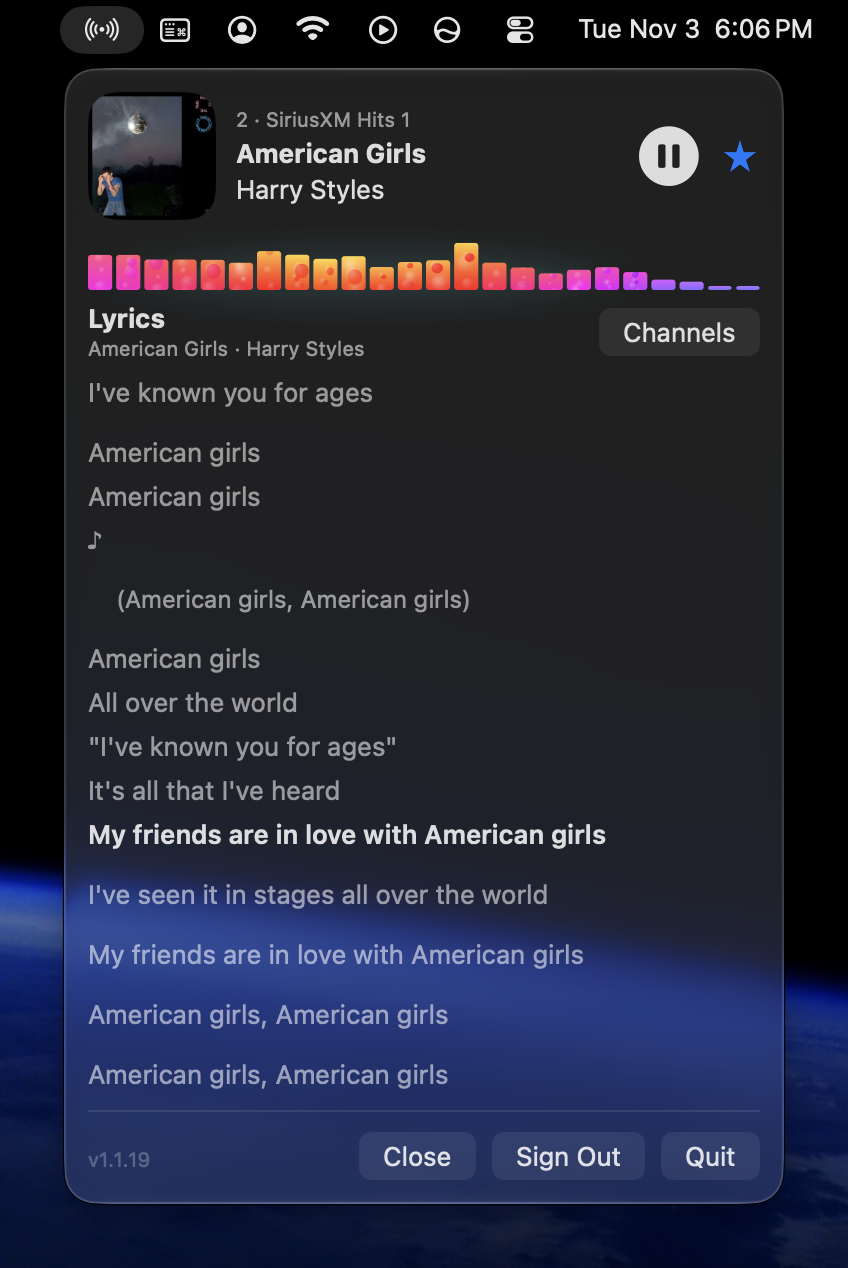
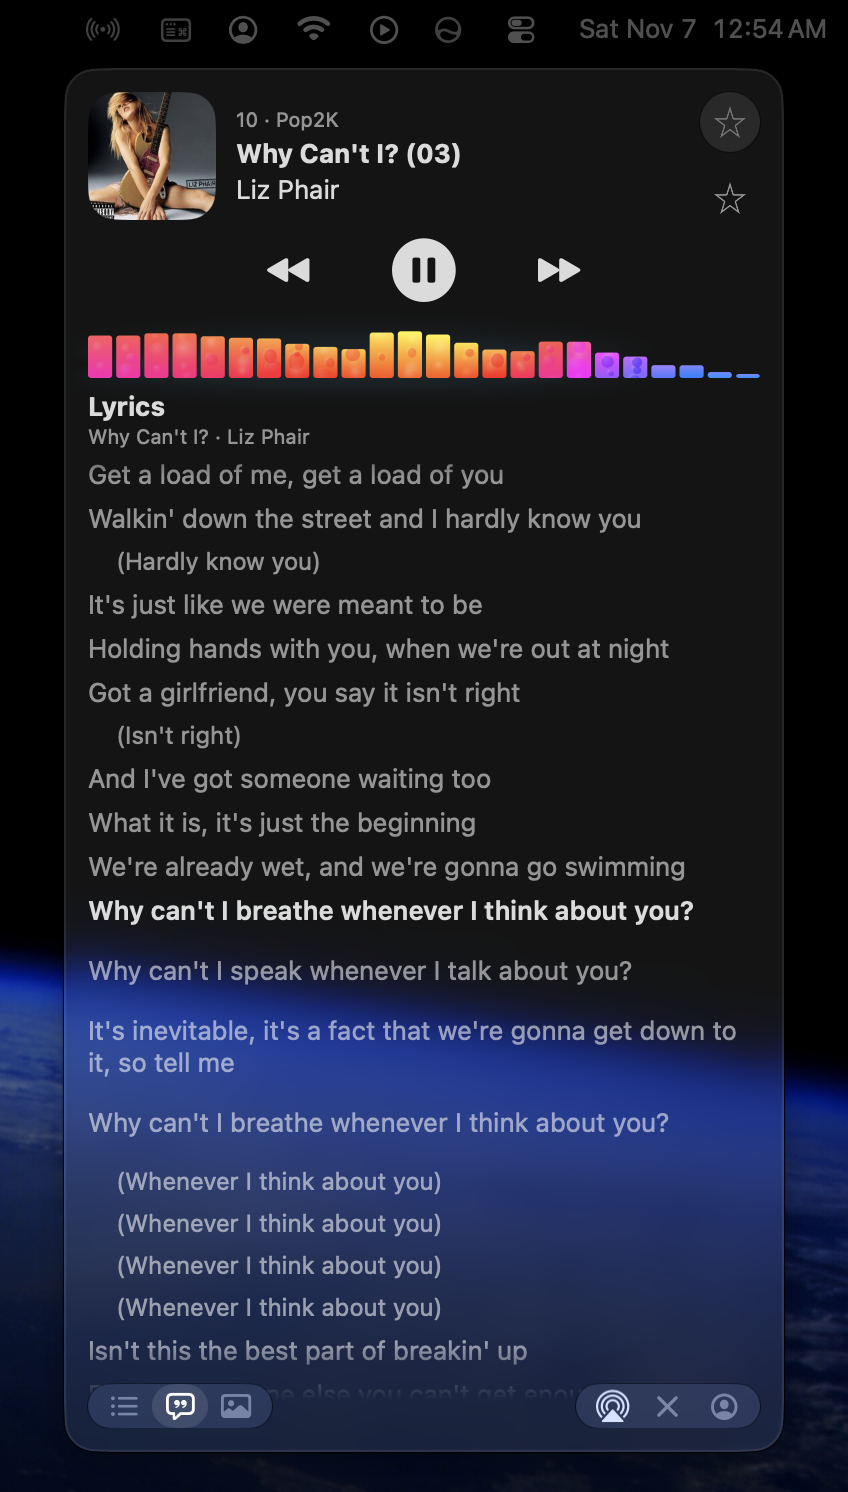
README: Mac screenshots and demo GIF retaken on 1.1.31 (Liquid Glass panel); All Stars button at the top right; download link 1.1.31

Changed region(s): [[0.0, 0.0, 1.0, 1.0], [0.7358, 0.0923, 0.8278, 0.1538], [0.7358, 0.4306, 0.7972, 0.4614]]

diff --git a/README.md b/README.md
@@ -21,7 +21,7 @@ StarPlayrX was built for visually impaired listeners, a group of paying subscrib
 ## 🎛 StarPlayrX for Mac (menu bar app)
 
 <p align="center">
-  <img src="docs/starplayrx-mac-demo.gif" width="400" alt="StarPlayrX playing Always Alright by Alabama Shakes: click the menu bar icon, drag the panel off the menu bar into its own window, double-click the header to roll it up like a window shade and again to roll it down, then click the icon to glide it back under the menu bar">
+  <img src="docs/starplayrx-mac-demo.gif" width="400" alt="StarPlayrX playing Why Can&#39;t I? by Liz Phair: click the menu bar icon, drag the panel off the menu bar into its own window, double-click the header to roll it up like a window shade and again to roll it down, then click the icon to glide it back under the menu bar">
 </p>
 
 <table align="center">
@@ -49,11 +49,11 @@ StarPlayrX was built for visually impaired listeners, a group of paying subscrib
 <table align="center">
   <tr>
     <td align="center" valign="top" width="50%">
-      <img src="docs/screenshot-mac-album-art.png" width="300" alt="StarPlayrX under the menu bar showing the Welcome to the Pleasuredome album art full size for Relax by Frankie Goes To Hollywood on 80s on 8"><br>
+      <img src="docs/screenshot-mac-album-art.png" width="300" alt="StarPlayrX under the menu bar showing The Joshua Tree album art full size for Where The Streets Have No Name by U2 on 80s on 8"><br>
       <b>🖼 Click the art, see it big</b>
     </td>
     <td align="center" valign="top" width="50%">
-      <img src="docs/screenshot-mac-album-art-2.png" width="300" alt="StarPlayrX under the menu bar showing the album art full size for Groove Line by Heatwave on 70s on 7"><br>
+      <img src="docs/screenshot-mac-album-art-2.png" width="300" alt="StarPlayrX under the menu bar showing the album art full size for Half-Breed by Cher on 70s on 7"><br>
       <b>📻 It follows the song</b>
     </td>
   </tr>
@@ -67,11 +67,11 @@ StarPlayrX was built for visually impaired listeners, a group of paying subscrib
 <table align="center">
   <tr>
     <td align="center" valign="top" width="50%">
-      <img src="docs/screenshot-mac-lyrics.png" width="300" alt="StarPlayrX under the menu bar showing time-synced lyrics for Miss Independent by Kelly Clarkson on Unwell Music, with the line being sung in bold"><br>
+      <img src="docs/screenshot-mac-lyrics.png" width="300" alt="StarPlayrX under the menu bar showing time-synced lyrics for Where The Streets Have No Name by U2 on 80s on 8"><br>
       <b>🎤 Sing along from the menu bar</b>
     </td>
     <td align="center" valign="top" width="50%">
-      <img src="docs/screenshot-mac-lyrics-2.png" width="300" alt="StarPlayrX under the menu bar showing time-synced lyrics for American Girls by Harry Styles on SiriusXM Hits 1"><br>
+      <img src="docs/screenshot-mac-lyrics-2.png" width="300" alt="StarPlayrX under the menu bar showing time-synced lyrics for Why Can&#39;t I? by Liz Phair on Pop2K"><br>
       <b>📜 The lyrics follow the song</b>
     </td>
   </tr>
@@ -109,7 +109,7 @@ StarPlayrX was built for visually impaired listeners, a group of paying subscrib
   </tr>
 </table>
 
-- **Stars (presets):** every channel row has a star; click it to add the channel to your presets or take it out. The star beside the play button stars the playing channel, and the star beside the search field shows just your starred channels. Stars are kept on this Mac, under the same key and with the same starting set as the iOS app
+- **Stars (presets):** every channel row has a star; click it to add the channel to your presets or take it out. The star beside the play button stars the playing channel, and the All Stars button at the top right shows just your starred channels. Stars are kept on this Mac, under the same key and with the same starting set as the iOS app
 - **Liquid Glass** look on macOS 26 and later
 - **AppleScript support:** play, stop, resume, and step through channels, read what each channel shows and what's actually playing (artist, song, artwork), list channels by category, search, scroll, tear off, park, and shade the window, pick the bubble mode. Open the StarPlayrX dictionary in Script Editor to see every command
 - Search channels, artists and songs
@@ -125,7 +125,7 @@ StarPlayrX was built for visually impaired listeners, a group of paying subscrib
 
 **Requirements:** macOS 13 Ventura or later, Apple Silicon or Intel, and an active SiriusXM subscription.
 
-**Download:** [StarPlayrX for Mac 1.1.23](https://github.com/AgentiLoop/StarPlayrX/releases/tag/mac-1.1.23) (signed and notarized). All builds are on the [Releases](https://github.com/AgentiLoop/StarPlayrX/releases) page.
+**Download:** [StarPlayrX for Mac 1.1.31](https://github.com/AgentiLoop/StarPlayrX/releases/tag/mac-1.1.31) (signed and notarized). All builds are on the [Releases](https://github.com/AgentiLoop/StarPlayrX/releases) page.
 
 ### 📜 AppleScript
 
